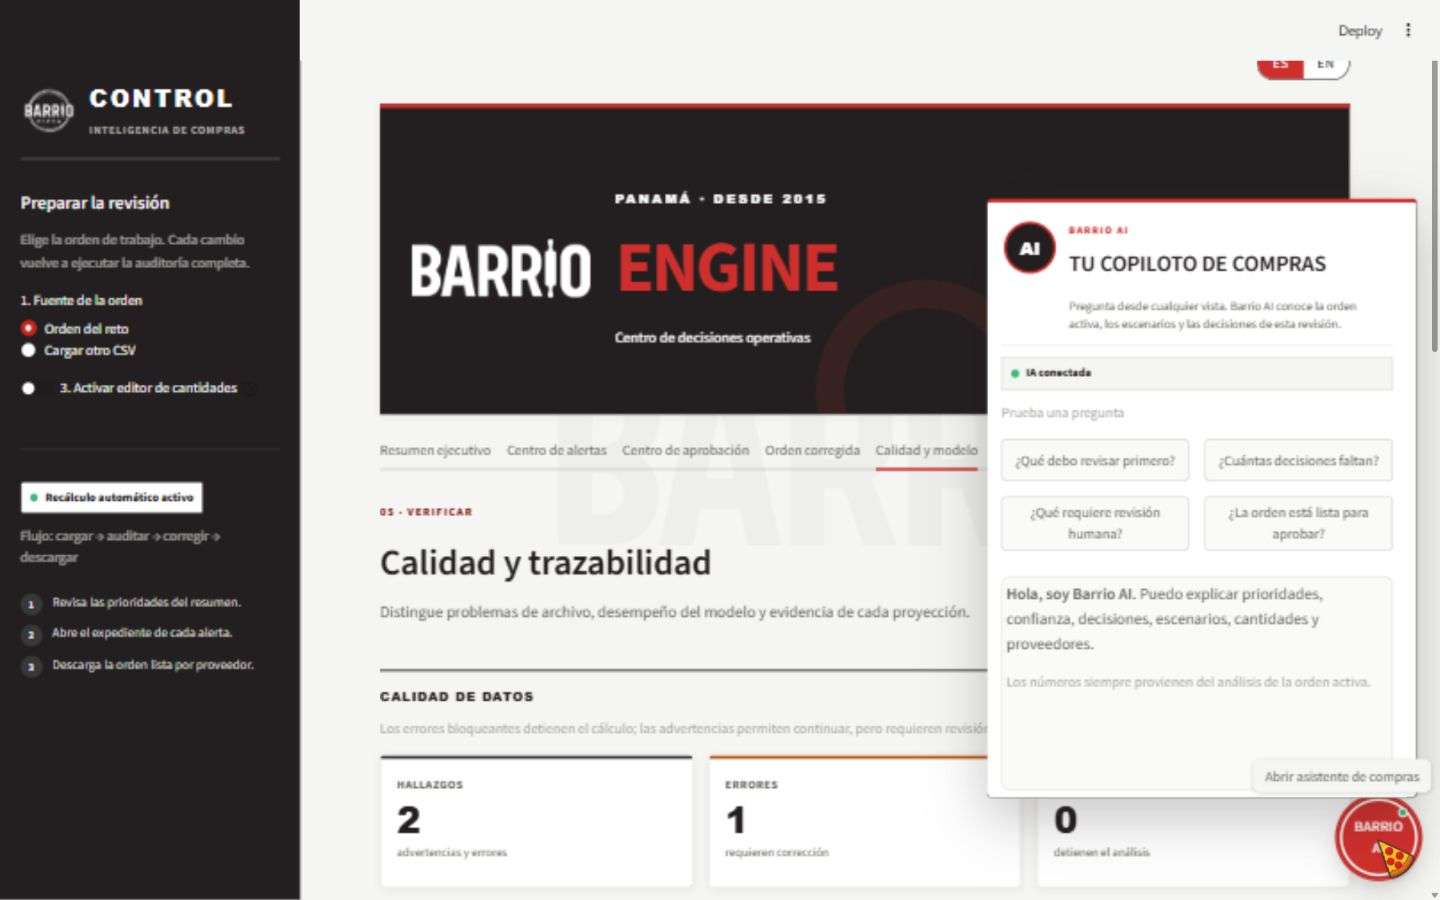
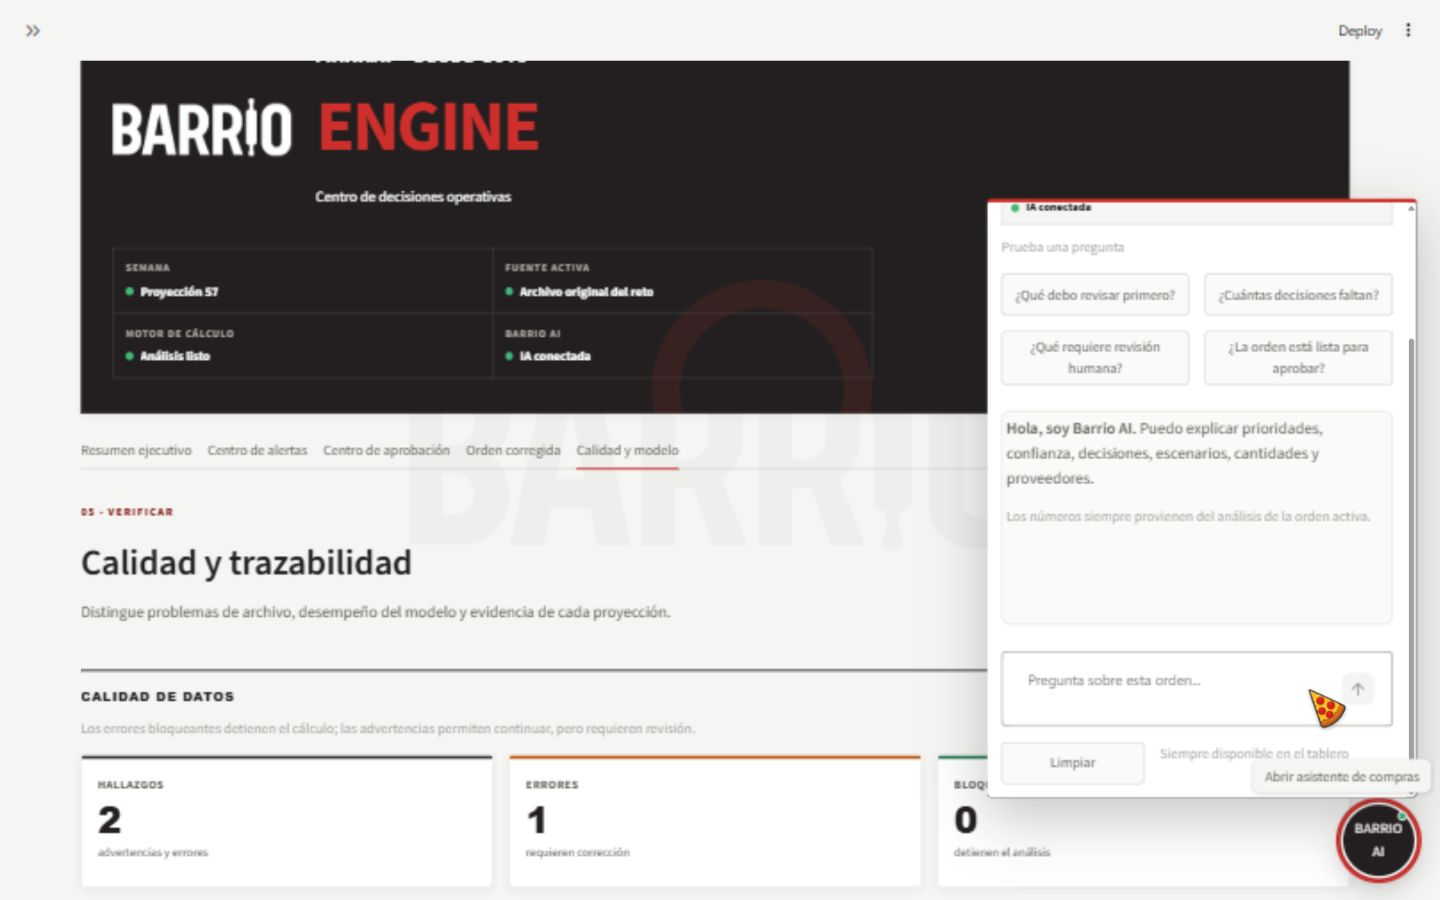
feat: export purchasing reports as formatted Excel

diff --git a/assets/styles.css b/assets/styles.css
@@ -999,8 +999,22 @@ textarea:focus-visible,
 
 [data-testid="stPopoverBody"] [data-testid="stChatInput"] textarea {
   min-height: 46px;
+  background: transparent;
+  border: 0;
+}
+
+[data-testid="stPopoverBody"] [data-testid="stChatInput"] {
+  overflow: hidden;
   background: #fff;
-  border-color: var(--bp-border-strong);
+  border: 2px solid var(--bp-border-strong);
+  border-radius: var(--bp-radius-sm);
+  box-shadow: 0 1px 0 rgb(17 17 17 / 5%);
+  transition: border-color 120ms ease, box-shadow 120ms ease;
+}
+
+[data-testid="stPopoverBody"] [data-testid="stChatInput"]:focus-within {
+  border-color: var(--bp-red);
+  box-shadow: 0 0 0 3px rgb(201 37 26 / 16%);
 }
 
 [data-testid="stAlert"] {

diff --git a/app.py b/app.py
@@ -50,7 +50,7 @@ from src.dashboard import (
     ErrorDashboard,
     completar_orden_para_editor,
     construir_analisis,
-    dataframe_a_csv_bytes,
+    dataframe_a_excel_bytes,
     filtrar_resultados,
     limpiar_infinito,
     leer_orden_csv,
@@ -1827,24 +1827,28 @@ with pestanas[2]:
         )
         descargas_aprobacion = st.columns(2)
         descargas_aprobacion[0].download_button(
-            _texto("Descargar orden aprobada · CSV", "Download approved order · CSV"),
-            data=dataframe_a_csv_bytes(
+            _texto("Descargar orden aprobada · Excel", "Download approved order · Excel"),
+            data=dataframe_a_excel_bytes(
                 aplicar_nombres_visibles(
                     orden_aprobada,
                     idioma=_idioma_codigo(),
-                )
+                ),
+                nombre_hoja=_texto("Orden aprobada", "Approved order"),
             ),
-            file_name="orden_aprobada_barrio_pizza.csv",
-            mime="text/csv",
+            file_name="orden_aprobada_barrio_pizza.xlsx",
+            mime="application/vnd.openxmlformats-officedocument.spreadsheetml.sheet",
             type="primary",
             width="stretch",
             key="aprobacion_descargar_orden",
         )
         descargas_aprobacion[1].download_button(
-            _texto("Descargar bitácora · CSV", "Download decision log · CSV"),
-            data=dataframe_a_csv_bytes(bitacora),
-            file_name="bitacora_revision_compras.csv",
-            mime="text/csv",
+            _texto("Descargar bitácora · Excel", "Download decision log · Excel"),
+            data=dataframe_a_excel_bytes(
+                bitacora,
+                nombre_hoja=_texto("Bitácora", "Decision log"),
+            ),
+            file_name="bitacora_revision_compras.xlsx",
+            mime="application/vnd.openxmlformats-officedocument.spreadsheetml.sheet",
             width="stretch",
             key="aprobacion_descargar_bitacora",
         )
@@ -1966,39 +1970,41 @@ with pestanas[3]:
     descargas = st.columns(2)
     descarga_completa = descargas[0].download_button(
         _texto(
-            "Descargar orden aprobada · CSV" if es_orden_aprobada else "Descargar borrador completo · CSV",
-            "Download approved order · CSV" if es_orden_aprobada else "Download full draft · CSV",
+            "Descargar orden aprobada · Excel" if es_orden_aprobada else "Descargar borrador completo · Excel",
+            "Download approved order · Excel" if es_orden_aprobada else "Download full draft · Excel",
         ),
-        data=dataframe_a_csv_bytes(
+        data=dataframe_a_excel_bytes(
             aplicar_nombres_visibles(
                 orden_operativa,
                 idioma=_idioma_codigo(),
-            )
+            ),
+            nombre_hoja=_texto("Orden de compra", "Purchase order"),
         ),
         file_name=(
-            "orden_aprobada_barrio_pizza.csv"
+            "orden_aprobada_barrio_pizza.xlsx"
             if es_orden_aprobada
-            else "orden_recomendada_barrio_pizza.csv"
+            else "orden_recomendada_barrio_pizza.xlsx"
         ),
-        mime="text/csv",
+        mime="application/vnd.openxmlformats-officedocument.spreadsheetml.sheet",
         width="stretch",
         type="primary",
         key="orden_descarga_completa",
     )
     descarga_filtrada = descargas[1].download_button(
-        _texto("Descargar vista filtrada · CSV", "Download filtered view · CSV"),
-        data=dataframe_a_csv_bytes(
+        _texto("Descargar vista filtrada · Excel", "Download filtered view · Excel"),
+        data=dataframe_a_excel_bytes(
             aplicar_nombres_visibles(
                 orden_filtrada,
                 idioma=_idioma_codigo(),
-            )
+            ),
+            nombre_hoja=_texto("Vista filtrada", "Filtered view"),
         ),
         file_name=(
-            "orden_aprobada_filtrada.csv"
+            "orden_aprobada_filtrada.xlsx"
             if es_orden_aprobada
-            else "orden_recomendada_filtrada.csv"
+            else "orden_recomendada_filtrada.xlsx"
         ),
-        mime="text/csv",
+        mime="application/vnd.openxmlformats-officedocument.spreadsheetml.sheet",
         width="stretch",
         key="orden_descarga_filtrada",
     )
@@ -2039,12 +2045,13 @@ with pestanas[3]:
             st.code(mensaje_proveedor, language=None)
             descargas_proveedor = st.columns(2)
             descarga_proveedor = descargas_proveedor[0].download_button(
-                f"{_texto('Descargar CSV', 'Download CSV')} · {proveedor}",
-                data=dataframe_a_csv_bytes(
-                    aplicar_nombres_visibles(grupo, idioma=_idioma_codigo())
+                f"{_texto('Descargar Excel', 'Download Excel')} · {proveedor}",
+                data=dataframe_a_excel_bytes(
+                    aplicar_nombres_visibles(grupo, idioma=_idioma_codigo()),
+                    nombre_hoja=_texto("Orden proveedor", "Supplier order"),
                 ),
-                file_name=f"orden_{str(proveedor).lower().replace(' ', '_')}.csv",
-                mime="text/csv",
+                file_name=f"orden_{str(proveedor).lower().replace(' ', '_')}.xlsx",
+                mime="application/vnd.openxmlformats-officedocument.spreadsheetml.sheet",
                 key=f"descarga_{proveedor}",
                 width="stretch",
             )
@@ -2122,10 +2129,13 @@ with pestanas[4]:
             width="stretch",
         )
         st.download_button(
-            _texto("Descargar reporte de calidad · CSV", "Download quality report · CSV"),
-            data=dataframe_a_csv_bytes(hallazgos),
-            file_name="reporte_calidad_datos.csv",
-            mime="text/csv",
+            _texto("Descargar reporte de calidad · Excel", "Download quality report · Excel"),
+            data=dataframe_a_excel_bytes(
+                hallazgos,
+                nombre_hoja=_texto("Calidad de datos", "Data quality"),
+            ),
+            file_name="reporte_calidad_datos.xlsx",
+            mime="application/vnd.openxmlformats-officedocument.spreadsheetml.sheet",
         )
 
     with st.expander(
@@ -2184,27 +2194,36 @@ with pestanas[4]:
             st.dataframe(reporte_ui, hide_index=True, width="stretch")
         descargas_reparacion = st.columns(3)
         descargas_reparacion[0].download_button(
-            _texto("Descargar plantilla limpia", "Download clean template"),
-            data=dataframe_a_csv_bytes(plantilla_reparada),
-            file_name="orden_plantilla_validada.csv",
-            mime="text/csv",
+            _texto("Descargar plantilla limpia · Excel", "Download clean template · Excel"),
+            data=dataframe_a_excel_bytes(
+                plantilla_reparada,
+                nombre_hoja=_texto("Plantilla validada", "Validated template"),
+            ),
+            file_name="orden_plantilla_validada.xlsx",
+            mime="application/vnd.openxmlformats-officedocument.spreadsheetml.sheet",
             width="stretch",
             key="reparador_descargar_plantilla",
         )
         descargas_reparacion[1].download_button(
-            _texto("Descargar filas a revisar", "Download rows to review"),
-            data=dataframe_a_csv_bytes(filas_revision),
-            file_name="orden_filas_por_revisar.csv",
-            mime="text/csv",
+            _texto("Descargar filas a revisar · Excel", "Download rows to review · Excel"),
+            data=dataframe_a_excel_bytes(
+                filas_revision,
+                nombre_hoja=_texto("Filas a revisar", "Rows to review"),
+            ),
+            file_name="orden_filas_por_revisar.xlsx",
+            mime="application/vnd.openxmlformats-officedocument.spreadsheetml.sheet",
             width="stretch",
             disabled=filas_revision.empty,
             key="reparador_descargar_excepciones",
         )
         descargas_reparacion[2].download_button(
-            _texto("Descargar registro de cambios", "Download change log"),
-            data=dataframe_a_csv_bytes(reporte_reparacion),
-            file_name="orden_registro_reparacion.csv",
-            mime="text/csv",
+            _texto("Descargar registro de cambios · Excel", "Download change log · Excel"),
+            data=dataframe_a_excel_bytes(
+                reporte_reparacion,
+                nombre_hoja=_texto("Registro de cambios", "Change log"),
+            ),
+            file_name="orden_registro_reparacion.xlsx",
+            mime="application/vnd.openxmlformats-officedocument.spreadsheetml.sheet",
             width="stretch",
             key="reparador_descargar_registro",
         )

diff --git a/src/dashboard.py b/src/dashboard.py
@@ -447,9 +447,89 @@ def preparar_orden_por_proveedor(
     ).reset_index(drop=True)
 
 
-def dataframe_a_csv_bytes(dataframe: pd.DataFrame) -> bytes:
-    """Genera un CSV compatible con Excel conservando tildes."""
-    return dataframe.to_csv(index=False).encode("utf-8-sig")
+def dataframe_a_excel_bytes(
+    dataframe: pd.DataFrame,
+    *,
+    nombre_hoja: str = "Datos",
+) -> bytes:
+    """Genera un libro Excel legible, filtrable y listo para compartir."""
+    salida = BytesIO()
+    hoja = "".join(
+        caracter for caracter in str(nombre_hoja) if caracter not in "[]:*?/\\"
+    ).strip()[:31] or "Datos"
+
+    with pd.ExcelWriter(salida, engine="xlsxwriter") as escritor:
+        exportable = dataframe.replace([np.inf, -np.inf], np.nan)
+        exportable.to_excel(
+            escritor,
+            sheet_name=hoja,
+            index=False,
+            na_rep="",
+        )
+
+        libro = escritor.book
+        hoja_excel = escritor.sheets[hoja]
+        libro.set_properties(
+            {
+                "title": f"Barrio Pizza · {hoja}",
+                "company": "Barrio Pizza",
+                "comments": "Generado por BARRIO ENGINE",
+            }
+        )
+
+        encabezado = libro.add_format(
+            {
+                "bold": True,
+                "font_color": "#FFFFFF",
+                "bg_color": "#111111",
+                "bottom": 2,
+                "bottom_color": "#C9251A",
+                "align": "left",
+                "valign": "vcenter",
+            }
+        )
+        formato_base = {
+            "valign": "vcenter",
+            "border": 1,
+            "border_color": "#DEDEDA",
+        }
+        texto = libro.add_format(formato_base)
+        entero = libro.add_format({**formato_base, "num_format": "#,##0"})
+        decimal = libro.add_format({**formato_base, "num_format": "#,##0.00"})
+        fecha = libro.add_format({**formato_base, "num_format": "yyyy-mm-dd"})
+
+        hoja_excel.freeze_panes(1, 0)
+        hoja_excel.set_tab_color("#C9251A")
+        hoja_excel.set_row(0, 26)
+        hoja_excel.set_default_row(20)
+
+        for indice, columna in enumerate(exportable.columns):
+            hoja_excel.write(0, indice, str(columna), encabezado)
+            valores = exportable[columna].dropna().astype(str).tolist()
+            ancho = min(
+                max([len(str(columna)), *(len(valor) for valor in valores)] or [12]) + 2,
+                42,
+            )
+            ancho = max(ancho, 12)
+
+            nombre_columna = str(columna).lower()
+            if "formatos" in nombre_columna or pd.api.types.is_integer_dtype(
+                exportable[columna]
+            ):
+                formato = entero
+            elif pd.api.types.is_float_dtype(exportable[columna]):
+                formato = decimal
+            elif pd.api.types.is_datetime64_any_dtype(exportable[columna]):
+                formato = fecha
+            else:
+                formato = texto
+            hoja_excel.set_column(indice, indice, ancho, formato)
+
+        if len(exportable.columns) > 0:
+            ultima_fila = max(len(exportable), 1)
+            hoja_excel.autofilter(0, 0, ultima_fila, len(exportable.columns) - 1)
+
+    return salida.getvalue()
 
 
 def porcentaje_orden_correcta(resumen: dict[str, int]) -> float:

diff --git a/tests/test_dashboard.py b/tests/test_dashboard.py
@@ -6,7 +6,7 @@ from src.carga_datos import cargar_datos
 from src.dashboard import (
     completar_orden_para_editor,
     construir_analisis,
-    dataframe_a_csv_bytes,
+    dataframe_a_excel_bytes,
     filtrar_resultados,
     porcentaje_orden_correcta,
     preparar_orden_por_proveedor,
@@ -98,13 +98,32 @@ def test_orden_por_proveedor_mantiene_orden_estable() -> None:
     pd.testing.assert_frame_equal(filtrada, esperada)
 
 
-def test_csv_de_descarga_incluye_bom_para_excel() -> None:
-    contenido = dataframe_a_csv_bytes(
-        pd.DataFrame({"nombre": ["Piña", "Mozzarella"]})
+def test_excel_de_descarga_conserva_columnas_tildes_y_filtros() -> None:
+    from io import BytesIO
+    from zipfile import ZipFile
+
+    contenido = dataframe_a_excel_bytes(
+        pd.DataFrame(
+            {
+                "proveedor": ["Deli Gourmet", "Deli Gourmet"],
+                "nombre": ["Piña", "Mozzarella"],
+                "cantidad": [2, 18],
+            }
+        ),
+        nombre_hoja="Orden",
     )
 
-    assert contenido.startswith(b"\xef\xbb\xbf")
-    assert "Piña" in contenido.decode("utf-8-sig")
+    assert contenido.startswith(b"PK")
+    with ZipFile(BytesIO(contenido)) as libro:
+        compartidos = libro.read("xl/sharedStrings.xml").decode("utf-8")
+        hoja = libro.read("xl/worksheets/sheet1.xml").decode("utf-8")
+
+    assert all(
+        texto in compartidos
+        for texto in ["proveedor", "nombre", "cantidad", "Piña", "Mozzarella"]
+    )
+    assert "<autoFilter" in hoja
+    assert 'state="frozen"' in hoja
 
 
 def test_porcentaje_correcto_del_reto() -> None:

diff --git a/README.md b/README.md
@@ -39,7 +39,7 @@ flowchart LR
     D --> E[Alertas priorizadas]
     E --> F[Revisión humana]
     F --> G[Orden aprobada]
-    G --> H[CSV y mensaje por proveedor]
+    G --> H[Excel y mensaje por proveedor]
 ```
 
 ## Propuesta de valor
@@ -98,7 +98,7 @@ El dashboard no se limita a señalar que una orden está mal. Permite comprender
 - Confianza operativa y aplicación masiva solo para casos de alta confianza.
 - Simulador temporal de variaciones de demanda.
 - Reparador guiado de archivos sin correcciones silenciosas.
-- Orden agrupada por proveedor y mensajes en texto legible.
+- Libros Excel filtrables, ordenados por proveedor y acompañados de mensajes en texto legible.
 - Interfaz completa en español e inglés.
 - Barrio AI disponible desde cualquier vista, con respaldo local.
 
@@ -208,10 +208,10 @@ Cada alerta puede resolverse mediante una de estas decisiones:
 
 Al completar la revisión se generan:
 
-- `orden_aprobada_barrio_pizza.csv`;
-- `bitacora_revision_compras.csv`;
+- `orden_aprobada_barrio_pizza.xlsx`;
+- `bitacora_revision_compras.xlsx`;
 - mensajes TXT por sucursal;
-- CSV y mensaje TXT por proveedor.
+- Excel y mensaje TXT por proveedor.
 
 Los mensajes se preparan para copiar o descargar, pero el prototipo **no afirma que hayan sido enviados**.
 
